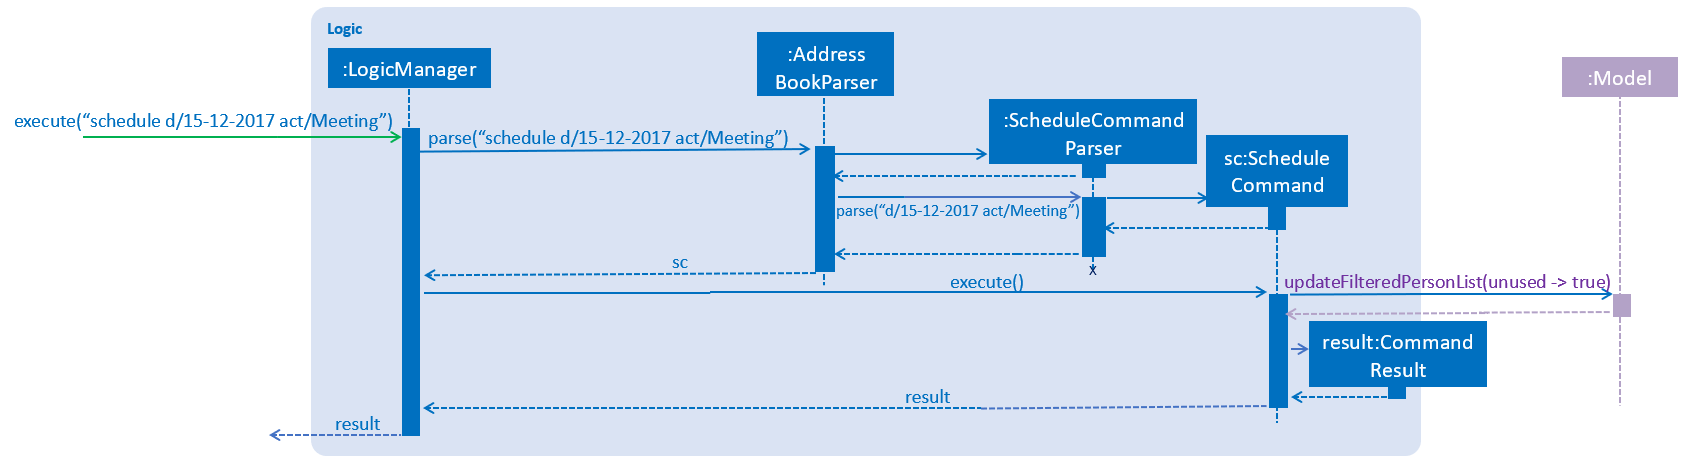
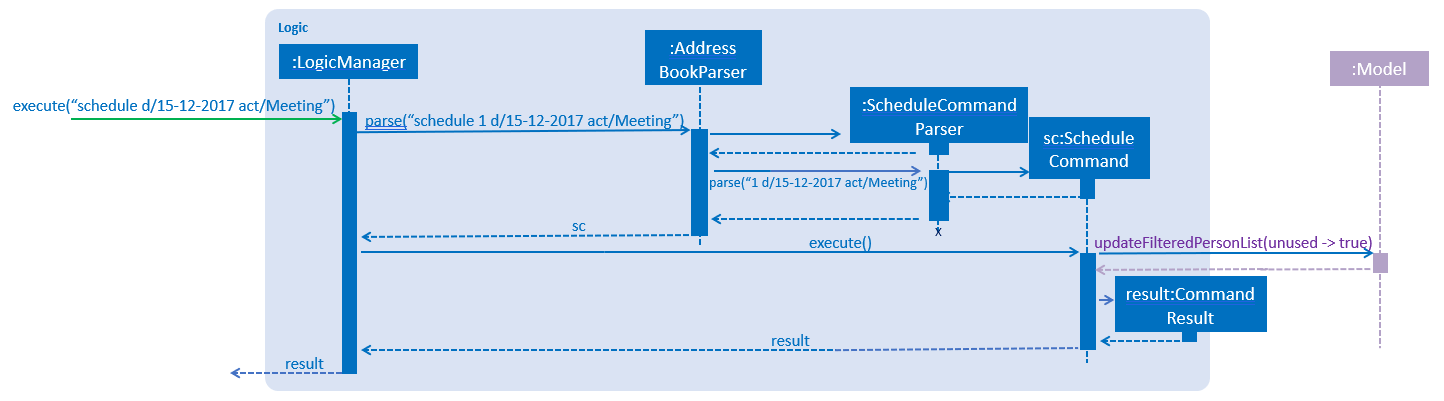
ScheduleSingle DG done

diff --git a/src/main/java/seedu/address/logic/commands/ScheduleCommand.java b/src/main/java/seedu/address/logic/commands/ScheduleCommand.java
@@ -132,7 +132,7 @@ public class ScheduleCommand extends UndoableCommand {
         return schedulePersonNames;
     }
 
-    //@@ CT15
+    //@@author CT15
     @Override
     public boolean equals(Object other) {
         return other == this // short circuit if same object
